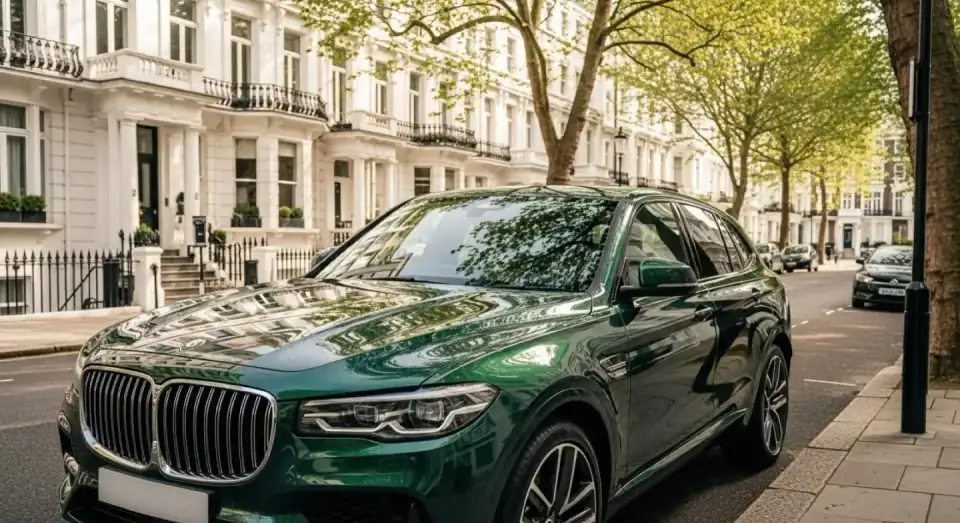
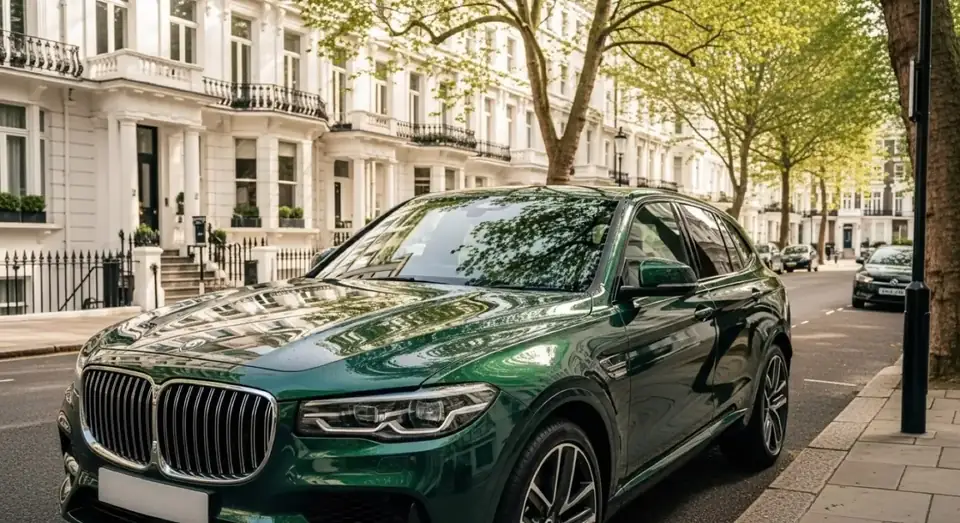
Homepage hero on phones: sharp photo instead of the blurred placeholder
- Phones get a full-resolution portrait crop of the hero photo (760x785, same
  framing as object-position 34% on the full photo) via <picture>, instead of
  the 1 KB pre-blurred copy. The tall phone hero only shows that slice, so it
  is now pixel-sharp rather than an enlarged small file.
- Restored the original hero files (1440/960) from before recompression; 720
  regenerated from the original at q80.
- Mobile Lighthouse Performance on the homepage goes 100 -> ~87 (the photo is
  the LCP element again); every other category stays 100, desktop 99.

Claude-Session: https://claude.ai/code/session_01R3uzDXs17TR2GKXW6B9B9L

diff --git a/src/components/Sections.tsx b/src/components/Sections.tsx
@@ -25,19 +25,20 @@ const HERO = {
   src: "/images/hero-green-bmw-valeted-west-london-1440.webp",
   sizes: "100vw",
   srcSet: [720, 960, 1440].map((w) => `/images/hero-green-bmw-valeted-west-london-${w}.webp ${w}w`).join(", "),
-  // Phones: the photo sits behind the frosted glass card (which blurs it anyway), so a tiny, pre-blurred
-  // 1 KB version is used. It loads instantly and, being low-detail, lets the headline count as LCP.
-  phone: "/images/hero-green-bmw-valeted-west-london-phone.webp",
+  // Phones: the hero is tall and narrow, so only a slice of the wide photo shows. A full-resolution
+  // portrait crop of that slice (same framing as object-position 34% on the full photo) keeps it sharp
+  // instead of enlarging a small file.
+  portrait: "/images/hero-green-bmw-valeted-west-london-portrait.webp",
   phoneMedia: "(max-width: 760px)",
 };
 
 export function Hero() {
-  preload(HERO.phone, { as: "image", media: HERO.phoneMedia, fetchPriority: "high" });
+  preload(HERO.portrait, { as: "image", media: HERO.phoneMedia, fetchPriority: "high" });
   preload(HERO.src, { as: "image", imageSrcSet: HERO.srcSet, imageSizes: HERO.sizes, media: "(min-width: 761px)", fetchPriority: "high" });
   return (
     <section className="hero" aria-labelledby="hero-title">
       <picture className="hero__photo">
-        <source media={HERO.phoneMedia} srcSet={HERO.phone} width={160} height={87} />
+        <source media={HERO.phoneMedia} srcSet={HERO.portrait} width={760} height={785} />
         {/* eslint-disable-next-line @next/next/no-img-element */}
         <img
           src={HERO.src}

diff --git a/README.md b/README.md
@@ -139,9 +139,9 @@ permanently redirect to the matching live URL (`src/data/live-urls.ts`), and the
   `.faq`, and bare `h1`/`p`/`a`…) carry a zero-specificity `:where(:not(.lv *))` guard, so the app styles stop at
   the cloned content and the header/footer look exactly as before.
 - Performance: the clone script also drops unused selectors from the live CSS, adds width/height to every
-  image and writes compressed WebP copies (`public/assets/img/opt/`, with `srcset`). The homepage hero uses a
-  ~1 KB blurred photo on phones (it sits behind the glass card). Lighthouse: homepage 100 in every category;
-  inner pages 100 except Performance ~90 on mobile (a content photo in the first screen is the LCP element).
+  image and writes compressed WebP copies (`public/assets/img/opt/`, with `srcset`). On phones the homepage
+  hero uses a full-resolution portrait crop of the photo (`hero-…-portrait.webp`) so it stays sharp. Lighthouse:
+  100 in every category except mobile Performance (~87–92, the sharp hero/first photo is the LCP element).
 - `src/app/clone-mobile.css`: hand-written phone tweaks for the inner pages (scoped to `.lv-inner`, kept out of
   the generated `clone.css` so a re-sync never overwrites them).
 - Google Analytics (`G-61XV0XK8SJ`, same key events as the live site) loads only on `ecoverdevaleting.co.uk`, so
